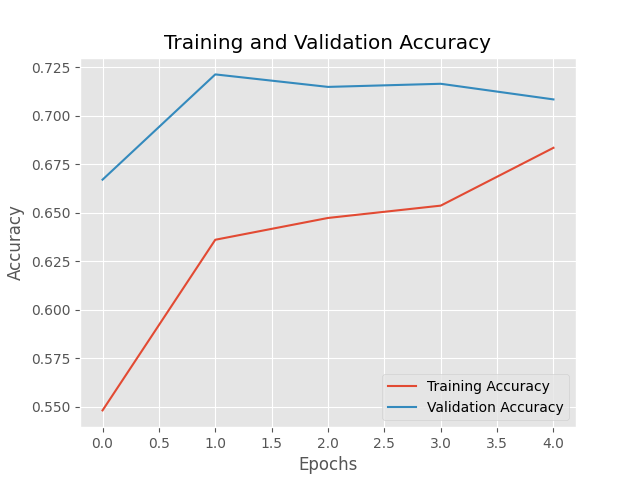
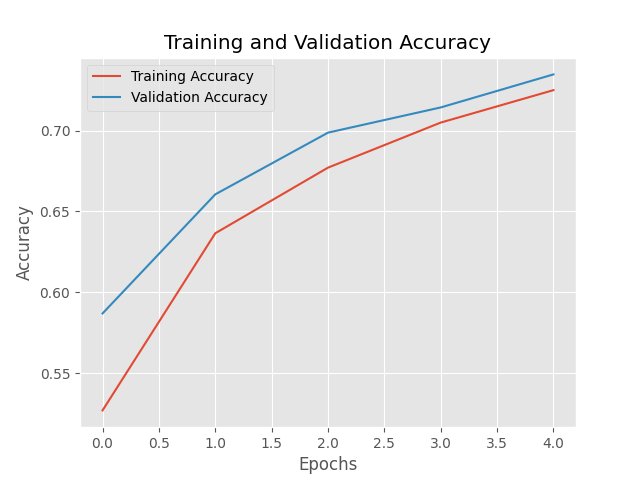
added minor changes, showing memory allocation and can save model

diff --git a/main.py b/main.py
@@ -2,7 +2,6 @@ import os
 import numpy as np
 import glob
 import PIL.Image as Image
-from tqdm.notebook import tqdm
 
 import torch
 import torch.nn as nn
@@ -10,14 +9,14 @@ import torch.nn.functional as F
 import torchvision.datasets as datasets
 from torch.utils.data import DataLoader
 import torchvision.transforms as transforms
-import matplotlib.pyplot as plt
+
 
 import sys
 
 import dataset
 import utilities as ut
 
-from model import Network
+from model import Network, ResNet
 
 
 
@@ -29,12 +28,12 @@ def train(model, optimizer, train_loader, test_loader, device, num_epochs=50,):
               'train_loss': [],
               'test_loss': []}
   
-    for epoch in tqdm(range(num_epochs), unit='epoch'):
+    for epoch in range(num_epochs):
         model.train()
         #For each epoch
         train_correct = 0
         train_loss = []
-        for minibatch_no, (data, target) in tqdm(enumerate(train_loader), total=len(train_loader)):
+        for minibatch_no, (data, target) in enumerate(train_loader):
             data, target = data.to(device), target.to(device)
             #Zero the gradients computed for each weight
             optimizer.zero_grad()
@@ -67,7 +66,8 @@ def train(model, optimizer, train_loader, test_loader, device, num_epochs=50,):
         out_dict['train_loss'].append(np.mean(train_loss))
         out_dict['test_loss'].append(np.mean(test_loss))
         print(f"Loss train: {np.mean(train_loss):.3f}\t test: {np.mean(test_loss):.3f}\t",
-              f"Accuracy train: {out_dict['train_acc'][-1]*100:.1f}%\t test: {out_dict['test_acc'][-1]*100:.1f}%")
+              f"Accuracy train: {out_dict['train_acc'][-1]*100:.1f}%\t test: {out_dict['test_acc'][-1]*100:.1f}%\t",
+              f"Memory allocated: {torch.cuda.memory_allocated(device=device)/1e9:.1f} GB")
     return out_dict
 
 
@@ -76,14 +76,15 @@ def main():
     train_data, test_data = dataset.get_data()
 
     device = ut.get_device()
-    model = Network()
+    model = ResNet(3,8)
     model.to(device)
     optimizer = torch.optim.Adam(model.parameters(), lr=0.001)
     
-    training_stats = train(model, optimizer, train_data, test_data, device, 5)
+    training_stats = train(model, optimizer, train_data, test_data, device, 20)
     
     ut.plot_training_stats(training_stats)
 
+    torch.save(model.state_dict(), 'models/model.pt')
 
 
 if __name__ == "__main__":

diff --git a/model.py b/model.py
@@ -32,3 +32,44 @@ class Network(nn.Module):
         x = x.view(x.shape[0],-1)
         x = self.fc1(x)
         return x
+
+
+
+class ResNetBlock(nn.Module):
+    def __init__(self, n_features):
+        super(ResNetBlock, self).__init__()
+        self.conv1 = nn.Conv2d(n_features, n_features, kernel_size=3, stride=1, padding=1)
+        self.conv2 = nn.Conv2d(n_features, n_features, kernel_size=3, stride=1, padding=1)
+    def forward(self, x):
+        residual = x.clone()
+        out = F.relu(self.conv1(x))
+        out = self.conv2(out)
+        out += residual
+        return F.relu(out)
+    
+    def my_relu(x):
+        return torch.maximum(x, torch.zeros_like(x))
+
+
+class ResNet(nn.Module):
+    def __init__(self, n_in, n_features, num_res_blocks=3):
+        super(ResNet, self).__init__()
+        #First conv layers needs to output the desired number of features.
+        conv_layers = [nn.Conv2d(n_in, n_features, kernel_size=3, stride=1, padding=1),
+                       nn.ReLU()]
+        for i in range(num_res_blocks):
+            conv_layers.append(ResNetBlock(n_features))
+        self.res_blocks = nn.Sequential(*conv_layers)
+        self.fc = nn.Sequential(nn.Linear(401408, 2048),
+                                nn.ReLU(),
+                                nn.Linear(2048, 512),
+                                nn.ReLU(),
+                                nn.Linear(512,2),
+                                nn.LogSoftmax(dim=1))
+        
+    def forward(self, x):
+        x = self.res_blocks(x)
+        #reshape x so it becomes flat, except for the first dimension (which is the minibatch)
+        x = x.view(x.size(0), -1)
+        out = self.fc(x)
+        return out
